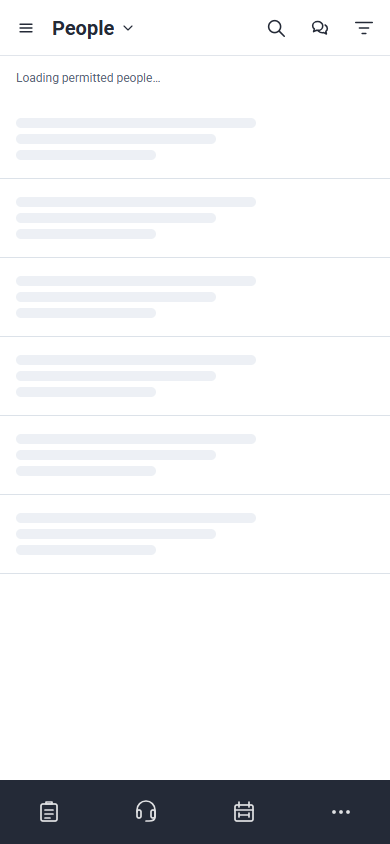
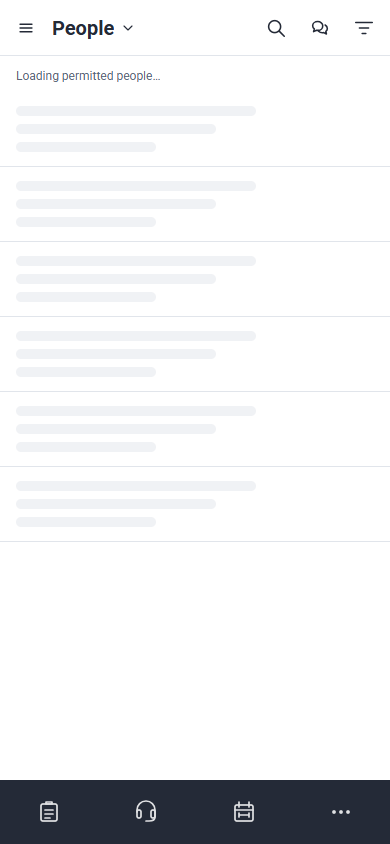
test(people): finish frame comparisons and record validation limits

Changed region(s): [[0.1231, 0.0616, 0.2769, 0.1232], [0.3077, 0.0616, 0.4, 0.1232], [0.0615, 0.0616, 0.0923, 0.1232]]

diff --git a/src/components/people-register.tsx b/src/components/people-register.tsx
@@ -115,6 +115,9 @@ function PeopleList({ query }: { query: URLSearchParams }) {
     true,
   );
   const data = resource.data;
+  const appliedOrganisation = data?.organisations.find(
+    (option) => option.id === query.get("organisation"),
+  )?.label;
   const selectedHere = selected.filter((id) =>
     data?.items.some((row) => row.id === id),
   );
@@ -422,14 +425,13 @@ function PeopleList({ query }: { query: URLSearchParams }) {
           <section className="people-state">
             <strong>No matching people</strong>
             <p>
-              No permitted person matches these filters. People in companies you
-              cannot see are not shown or counted. Check the spelling, or clear
-              the search.
+              No permitted person
+              {appliedOrganisation ? ` at ${appliedOrganisation}` : ""} matches
+              {query.get("q") ? ` “${query.get("q")}”` : " these filters"}.
+              People in companies you cannot see are not shown or counted. Check
+              the spelling, or clear the search.
             </p>
-            <Button
-              variant="secondary"
-              onClick={() => change({ q: "", organisation: "", notices: "" })}
-            >
+            <Button variant="secondary" onClick={() => change({ q: "" })}>
               Clear the search
             </Button>
           </section>
@@ -693,20 +695,24 @@ function PeopleList({ query }: { query: URLSearchParams }) {
                     <option value="DoNotNotify">Do not notify</option>
                   </select>
                 </label>
-                <Button type="submit">Show people</Button>
-                <Button
-                  variant="quiet"
-                  onClick={() => {
-                    setSearch("");
-                    setOrganisation("");
-                    setNotices("All");
-                  }}
-                >
-                  Reset
-                </Button>
-                <Button variant="secondary" onClick={refresh}>
-                  Refresh people
-                </Button>
+                <div className="people-filter-actions">
+                  <Button variant="primary" type="submit">
+                    Show people
+                  </Button>
+                  <Button
+                    variant="quiet"
+                    onClick={() => {
+                      setSearch("");
+                      setOrganisation("");
+                      setNotices("All");
+                    }}
+                  >
+                    Reset
+                  </Button>
+                  <Button variant="secondary" onClick={refresh}>
+                    Refresh people
+                  </Button>
+                </div>
                 <p>
                   <Link href={href("/customers/new?kind=person")}>
                     Create person

diff --git a/tests/browser/people-native.spec.ts b/tests/browser/people-native.spec.ts
@@ -164,32 +164,52 @@ test("CS02 loading, empty, failed and denied reads never retain a list or stale 
   });
   await page.goto("/people?department=service");
   await expect(page.locator(".people-loading")).toBeVisible();
+  expect(
+    (await page.locator(".people-skeleton").first().boundingBox())!.height,
+  ).toBe(75);
   await capture(page, info, "loading-390");
   mode = "loaded";
   release?.();
   await expect(page.locator(".people-phone-row")).toHaveCount(8);
   for (const state of ["empty", "error", "denied"]) {
     mode = state;
-    await page.reload();
+    await page.goto(
+      state === "empty"
+        ? `/people?department=service&q=Prya&organisation=${peopleFixtureId(106)}`
+        : "/people?department=service",
+    );
     await expect(page.locator(".people-state")).toBeVisible();
     await expect(page.locator(".people-phone-row")).toHaveCount(0);
     await expect(page.locator("#people-menu small")).toHaveCount(
       state === "empty" ? 4 : 0,
     );
-    if (state === "empty")
+    if (state === "empty") {
       await expect(
         page.getByText("No matching people", { exact: true }),
       ).toBeVisible();
-    else
+      await expect(page.locator(".people-state")).toContainText(
+        "No permitted person at Hillview Growers matches “Prya”.",
+      );
+    } else
       await expect(page.locator(".people-error")).toContainText(
         state === "denied" ? "outside your access" : "could not be loaded",
       );
     await capture(page, info, `${state}-390`);
+    if (state === "empty") {
+      await page
+        .getByRole("button", { name: "Clear the search", exact: true })
+        .click();
+      await expect(page).not.toHaveURL(/q=Prya/);
+      expect(new URL(page.url()).searchParams.get("organisation")).toBe(
+        peopleFixtureId(106),
+      );
+    }
   }
 });
 test("CS02 Contacts hub preserves People and Organisations and real person receiving", async ({
   page,
 }) => {
+  await page.setViewportSize({ width: 1440, height: 900 });
   await page.goto("/contacts?view=people&department=service");
   await expect(
     page.getByRole("navigation", { name: "Contacts views" }),

diff --git a/tests/browser/directory-navigation.spec.ts b/tests/browser/directory-navigation.spec.ts
@@ -19,7 +19,7 @@ async function directory(page: Page, path: "/customers" | "/people") {
   const response = await pending;
   expect(response.status()).toBe(200);
   const data = await response.json();
-  await expect(page.getByRole("heading", { name: path === "/customers" ? "Organisations" : "People", exact: true })).toBeVisible();
+  await expect(page.getByRole("heading", { name: path === "/customers" ? "Organisations" : "People", level: 1, exact: true })).toBeVisible();
   // Performance diagnostics share this readiness check; the phone trigger stays mounted behind Menu.
   await expect(identityToggle(page)).toBeEnabled();
   if (test.info().project.use.isMobile) await expect(identityToggle(page)).toBeHidden();
@@ -90,7 +90,7 @@ test("directory record links avoid automatic reads and keep exact receiving navi
       await page.getByRole('button',{name:isMobile ? 'Search people' : 'People options',exact:true}).click();
       await activate(page,page.getByRole('link',{name:'Create person',exact:true}),isMobile,!isMobile);
     }
-    await expect(page).toHaveURL(path === "/customers" ? /customers\/new$/ : new RegExp(`/customers/new\\?kind=${kind}$`));
+    await expect(page).toHaveURL(path === "/customers" ? /customers\/new$/ : new RegExp(`/customers/new\\?kind=${kind}(?:&department=[a-z]+)?$`));
     await expect(page.locator("main form").first()).toBeVisible();
   }
   await directory(page, "/customers");
@@ -105,7 +105,7 @@ test("directory record links avoid automatic reads and keep exact receiving navi
     const link = page.getByRole("navigation", { name: "Shared records", exact: true }).getByRole("link", { name: label, exact: true });
     await activate(page, link, isMobile, !isMobile);
     await expect(page).toHaveURL(new URL(path, page.url()).href);
-    await expect(page.getByRole("heading", { name: path === "/equipment" ? "Installed base" : label, exact: true })).toBeVisible();
+    await expect(page.getByRole("heading", { name: path === "/equipment" ? "Installed base" : label, level: 1, exact: true })).toBeVisible();
   }
   await page.screenshot({ path: info.outputPath("directory-navigation.png"), fullPage: false });
 });

diff --git a/tests/browser/department-navigation.spec.ts b/tests/browser/department-navigation.spec.ts
@@ -202,7 +202,7 @@ test("shared URL context survives unavailable browser storage", async ({ page })
   await expect(page.getByRole("navigation", { name: "Engineering shortcuts" })).toBeVisible();
   await page.reload();
   await expect(page.getByRole("navigation", { name: "Engineering shortcuts" })).toBeVisible();
-  await expect(page.getByRole("heading", { name: "People", exact: true })).toBeVisible();
+  await expect(page.getByRole("heading", { name: "People", level: 1, exact: true })).toBeVisible();
 });
 test("specific Engineering, Projects and Fertigation destinations preserve their active parent", async ({ page }) => {
   await login(page);
@@ -242,7 +242,7 @@ test("phone and 200 percent equivalent reflow keep the established navigation", 
   await expect(page.getByRole("button", { name: "More", exact: true })).toBeVisible();
   await capture(page, "mobile-leads-global-navigation");
   await page.setViewportSize({ width: 720, height: 450 }); await page.goto("/contacts?view=people&department=sales");
-  await expect(page.getByRole("heading", { name: "People", exact: true })).toBeVisible();
+  await expect(page.getByRole("heading", { name: "People", level: 1, exact: true })).toBeVisible();
   expect(await page.evaluate(() => document.documentElement.scrollWidth <= innerWidth)).toBe(true);
   const headerBounds = await page.locator(".ppo-shell-header").boundingBox();
   // Phone header amendment: the row keeps the Menu button and Conversations; search and the Page guide are in the Menu.

diff --git a/src/app/styles/people-register.css b/src/app/styles/people-register.css
@@ -208,7 +208,7 @@
 #ppo-people .people-state {
   margin: 12px 16px;
   padding: 16px;
-  border: 1px solid var(--line-strong);
+  border: 1px solid var(--line);
   border-radius: var(--radius-card);
   color: var(--text-secondary);
 }
@@ -227,23 +227,27 @@
   color: var(--danger);
 }
 #ppo-people .people-loading > p {
-  padding: 12px 16px;
+  padding: 12px 16px 8px;
   margin: 0;
   color: var(--text-secondary);
   font-size: 12px;
+  line-height: 16px;
 }
 #ppo-people .people-skeleton {
-  padding: 12px 16px;
-  border-bottom: 1px solid var(--line-strong);
+  display: flex;
+  flex-direction: column;
+  gap: 8px;
+  padding: 14px 16px;
+  border-bottom: 1px solid var(--line);
 }
 #ppo-people .people-skeleton i {
   display: block;
   height: 10px;
   width: 240px;
   max-width: 80%;
-  margin: 6px 0;
+  margin: 0;
   border-radius: var(--radius-control);
-  background: var(--neutral-surface);
+  background: var(--surface-hover);
 }
 #ppo-people .people-skeleton i:nth-child(2) {
   width: 200px;
@@ -331,6 +335,16 @@
 }
 #ppo-people .crm-r38-panel form label {
   display: grid;
+}
+#ppo-people .people-filter-actions {
+  display: flex;
+  flex-wrap: wrap;
+  gap: 8px;
+  margin: 12px 0;
+}
+#ppo-people .people-filter-actions .ppo-button--quiet:hover {
+  background: var(--neutral-surface);
+  color: var(--ink);
 }
 #ppo-people .crm-r38-panel :is(input:not([type="checkbox"]), select) {
   width: 100%;

diff --git a/tests/browser/shell-loading.spec.ts b/tests/browser/shell-loading.spec.ts
@@ -37,7 +37,7 @@ test("desktop and phone preserve exact shell navigation and Back with the baseli
   }
   if (isMobile) await link.tap(); else await keyActivate(page, link);
   await expect(page).toHaveURL(target.href);
-  await expect(page.getByRole("heading", { name: "People", exact: true })).toBeVisible();
+  await expect(page.getByRole("heading", { name: "People", level: 1, exact: true })).toBeVisible();
   await page.goBack();
   await expect(page).toHaveURL(`${origin}/customers?department=sales`);
   await expect(page.getByRole("heading", { name: "Organisations", exact: true })).toBeVisible();

diff --git a/docs/testing/evidence/people-native/README.md b/docs/testing/evidence/people-native/README.md
@@ -2,7 +2,7 @@
 
 <!-- versioning: git; committed history is authoritative -->
 
-Scope **CS-02**. Owner: Dean Fiedler. Contributor: Codex. Branch `codex/accepted-ui-build`, draft PR #624, based on main `d512bd38`. Owner visual/device review **pending**. Application deployment is not claimed.
+Scope **CS-02**. Owner: Dean Fiedler. Contributor/branch owner: this Codex build session. Branch `codex/accepted-ui-build`, application draft PR [#625](https://github.com/deanrfiedler-gif/powerplants-one/pull/625), based on main `971ac3502f87d5ba7e093bbe37abc83e75d4fb99`. Queue/claim PR #624 merged separately. Implementation commit `5f3d78d0` and the subsequent validation commit containing this evidence form the delivered source. Owner visual/device review **pending**. Application deployment is not claimed.
 
 The accepted source is **PPO - Design**, page `1395:150275`, named version **People — accepted**: desktop `1395:150312` (1440 × 900), tablet `1395:150835` (1024 × 900), phone `1395:151069` (390 × 844), loading `1395:151245`, empty `1395:151303`, error `1395:151346` (390 × 844), notes `1395:151383`. Read live metadata, design context, variables and screenshots. Shell sources: top bar `35:138`, Service rail `198:3778`, compact phone header `1530:110`, named **Phone header amendment — accepted**. The [retained captures](../../../reference/ui/customers/people-design-r01/README.md) remain unchanged.
 
@@ -12,14 +12,58 @@ The accepted source is **PPO - Design**, page `1395:150275`, named version **Peo
 
 Application captures use the repository's local fallback icons with the Kit unavailable on 127.0.0.1. Font Awesome drawing differences are expected; the existing Kit mapping supplies Pro Light only under the repository's opt-in runtime contract. No reference capture is rewritten.
 
-## Results
+## Executed checks — 20 October 2026
 
-- Database: **2/2 passed** on 20 October 2026. Permitted rows/counts/options, stable bounded pages, actor/company/filter-bound cursor refusal, invalid filters, current affiliations, primary contacts, latest notice preference and restricted history. Uses only existing migration 0109 and earlier test history; no new migration or capability.
-- Initial typecheck found two invalid icon names; corrected to existing mapped icons. Final check pending.
-- Initial dev launch rejected the node_modules junction (Turbopack filesystem root). Removed only the verified junction, installed the unchanged lockfile into this worktree, and restarted successfully on loopback port 3034.
-- The existing `ppo_synthetic` database lacks 0109's notice-preference table. It was not upgraded. Application verification uses the disposable `ppo_synthetic_test` database after its normal test setup.
-- Browser comparison, studio, lint, final typecheck, unit, build and documentation results are being collected. No pending check is claimed as passed.
+| Check | Result and boundary |
+|---|---|
+| `npm run studio:check` | Passed: 366 entries, 48 components, 21 runnable components, zero errors. 338 unreviewed and 28 stale entries remain visible; this is not owner acceptance. |
+| `npm run lint` | Passed. Focused ESLint rerun covers the final People component and browser-test edits. |
+| `npm run typecheck` | Passed. |
+| `npm run build` | Passed on the initial implementation and again after the final state/layout changes, including compilation, TypeScript and route generation. |
+| `npm run test:unit` | **Failed: 942/947 passed.** Three failures reproduce on unchanged main; two timeouts pass in quiet reruns, detailed below. No full green claim. |
+| Quiet unit rerun | **19/19 passed**, serial: `cpq-packages.test.ts`, `foundation.test.ts`, `people-register.test.ts` and `phone-header.test.ts`. |
+| `tests/database/people-register.test.ts` | **2/2 passed** against `ppo_synthetic_test`. Permitted rows/counts/options; bounded pages and actor/company/filter-bound cursor refusal; invalid filters; current affiliations, primary contacts, latest notice preference and restricted correction history. Existing migration 0109 and earlier history only. |
+| `tests/browser/people-native.spec.ts` | **10/10 passed** across desktop and mobile projects, plus the five-case capture run: 1440/1024/390/320 geometry, filter drafts/apply, transient selection, exact URLs, loading/empty/error/denied, Contacts and actual Person receiving, phone chooser and modal focus. |
+| `tests/browser/directory-navigation.spec.ts` | **2/2 passed**, desktop and mobile projects: no automatic record-prefetch reads; exact Person/Organisation/Site receiving, keyboard/touch activation, creation links and shared navigation. |
+| `tests/browser/crm-refinements.spec.ts`, saved/scoped directory case | **2/2 passed**, desktop and mobile projects. Existing account saved views remain usable through `people_layout=directory`. |
+| `tests/browser/department-navigation.spec.ts`, storage/reflow cases | **2 passed, two existing mobile-project skips**. Engineering context survives unavailable browser storage; the explicit 720 px phone/reflow scenario retains navigation and avoids page overflow. This is not a full zoom/accessibility review. |
+| `tests/browser/shell-loading.spec.ts` | **4 passed, two existing mobile-project skips**. Exact shell navigation/Back passes on desktop and phone; desktop first-paint rail and delayed Planner-context checks pass. |
+| `python scripts/check_naming.py` | Passed: 741 document records; maintained ChatGPT instructions 7,989 characters, unchanged. |
+| `python scripts/check_foundation.py` | Passed: 22 issued artefacts and all 78 parent requirements preserved. |
+| `python scripts/build_status.py` | Regenerated status and decisions index from 58 fragments. |
+| `python scripts/build-ui-sequence.py` | Regenerated ignored `tmp/` outputs: 366 entries, 363 placed, three excluded. 46 build / 104 refine / 208 review / five decide; 28 owner-reviewed entries retained, no new review invented. |
+
+Windows baseline comparison used a separate untouched worktree at `971ac3502f87d5ba7e093bbe37abc83e75d4fb99`. Running the four affected existing unit files produced 9/12 passing and the same three failures: two `document-store.test.ts` cases throw `ExactDocumentUnavailable`; `recovery.test.ts` expects `/outside Git/` but receives `Unsafe recovery directory`. The full feature run also hit the CPQ worker's five-second `CalculationLimit` and the foundation launcher's five-second `ETIMEDOUT`. Those cases passed on main and in the feature's quiet 19-case serial run. This supports an environment/timing explanation; it does not turn the failed full run into a pass.
+
+Initial browser checks caught oversized checkbox rows, the modal's browser-default width, ambiguous heading selectors and a first-load receiving timeout. The fixes reset checkbox geometry, explicitly fill the phone viewport, select the page's level-one heading, and wait for the existing receiving API. A final live-frame comparison corrected the 75 px loading rows and the empty state's applied filter text. The final browser runs above include those fixes. The empty state's Clear the search action now preserves Organisation and Notices.
+
+The first [Engineering CI run](https://github.com/deanrfiedler-gif/powerplants-one/actions/runs/39338126097) failed one existing department-navigation assertion because both the page and its new menu have a People heading. The affected department and shell assertions now target the level-one page heading; their local reruns pass as recorded above. Final-head CI is reported by the PR and is not inferred from those reruns.
+
+No new UI route was introduced, so `studio:sync` was not needed. The API route is registered through the existing People source bindings. No full database, HTTP, compiled-browser or physical-device suite was run locally; their status is not inferred from these focused checks. GitHub CI and independent review remain separate, with current results on the PR. No independent second-model review is claimed.
+
+## Reproduction environment
+
+Windows, locked Node/npm dependencies, stable Chrome through the repository's existing Playwright dependency. The application ran on loopback port 3034. Browser runs used a local config with that base URL, one worker, `en-AU`, 180-second per-test timeout, and desktop (1440 × 900) / mobile (390 × 844, touch enabled) project settings. Individual frame cases set the widths listed below. The normal repository browser configs discover the committed specs for CI; the local config did not change application code.
+
+Private local configuration was supplied directly to the process from outside this worktree. A local helper validated the loopback synthetic database setting and selected `ppo_synthetic_test`; no configuration values or connection strings are retained. The existing `ppo_synthetic` database lacks 0109's notice-preference table and **was not upgraded**. The disposable test database received its normal test setup with existing migrations only.
+
+The first dev launch rejected a node_modules junction under Turbopack's filesystem-root rules. Only the verified junction was removed; `npm ci --ignore-scripts --no-audit --no-fund` installed the unchanged lockfile in this worktree. No package or lockfile change was made.
+
+## Visual comparison
+
+These are contributor inspections, not Dean's visual review. The accepted live frame and the application were inspected at the same dimensions. No source capture was changed. All screenshots below use synthetic fixtures and local fallback icons.
+
+| Application capture | Compared source / observation |
+|---|---|
+| [Desktop 1440 × 900](register-1440.png) | `1395:150312`: full-bleed layout, 240 px secondary menu, 60 px toolbar, 40 px rows, pinned selection/actions and local horizontal grid scrolling. Shared timestamp includes year/zone; shell badges and icons reflect the real synthetic session. |
+| [Tablet 1024 × 900](register-1024.png) | `1395:150835`: compact register retained; shared menu opens as an overlay instead of the drawn 20 px collapsed strip. |
+| [Phone 390 × 844](register-390.png) | `1395:151069`: 85 px list rows. P9 removes the older two-row toolbar, moving the first row from y=166 to y=56. |
+| [Phone 320 × 844](register-320.png) | No drawn 320 px register. Compact header combines search/filter; no page-level horizontal overflow. This is an adaptation, not a matched reference. |
+| [Loading 390 × 844](loading-390.png) | `1395:151245`: six 75 px skeleton rows with 240/200/140 px bars and 8 px gaps, after the P9 header amendment. Shared tokens supply the colours. |
+| [Empty 390 × 844](empty-390.png) | `1395:151303`: Hillview Growers / “Prya” applied state, scoped absence wording and Clear the search. Touch button remains 44 px under P8, compared with 40 px in the older state frame. |
+| [Error 390 × 844](error-390.png) | `1395:151346`: error surface, no stale list/count, retry; the shared 44 px touch button differs from the older 40 px drawing. |
+| [Denied 390 × 844](denied-390.png), [filters 320 × 844](filters-320.png) | No accepted People frame for either composition. Existing state/modal primitives, explicit access boundary and return focus; owner composition review remains pending. |
 
 ## Recorded differences and questions
 
-The [page contract](../../../design/development/pages/route-people.md#recorded-gaps-and-open-questions) owns the complete list. In particular P9 removes two old phone toolbar rows, shifting the first list row from the retained frame's y=166 to y=56. The inherited tablet overlay replaces the drawn 20 px strip. The old saved-view workflow remains reachable separately; the accepted page draws no replacement. Owner review is independent of test results.
+The [page contract](../../../design/development/pages/route-people.md#recorded-gaps-and-open-questions) owns the complete list: tablet/menu breakpoint, undrawn phone filters and 320 px register, selection purpose, saved views, stakeholder context, date format, notice wording, offline/device limits and shell composition. In particular the inherited phone shell has no floating Quick add; Create person remains in the filter panel. Its navigation and badges reflect real synthetic permissions rather than the frame's example counts. These are declared differences, not new design acceptance. Owner review is independent of test results.

diff --git a/docs/STATUS.md b/docs/STATUS.md
@@ -5,11 +5,11 @@
 
 ## People register implementation and synthetic verification — 20 October 2026
 
-The accepted CS-02 People register is implemented in the dedicated `codex/accepted-ui-build` worktree: `/people` and the People view of `/contacts`, with the existing Person record receiving the exact handover. Source: **PPO - Design**, page `1395:150275`, named **People — accepted**, register/tablet/phone `1395:150312`, `1395:150835`, `1395:151069`, plus the three register states. The later compact phone amendment removes repeated toolbar rows. The queue-only PR #624 merged before the application change; the application follows in a separate draft PR.
+The accepted CS-02 People register is implemented in the dedicated `codex/accepted-ui-build` worktree: `/people` and the People view of `/contacts`, with the existing Person record receiving the exact handover. Source: **PPO - Design**, page `1395:150275`, named **People — accepted**, register/tablet/phone `1395:150312`, `1395:150835`, `1395:151069`, plus the three register states. The later compact phone amendment removes repeated toolbar rows. The queue-only PR #624 merged before the application change; the application is draft PR #625.
 
 The read-only aggregate uses existing grants and tables for current affiliations, primary sites, latest company/class notice exceptions and correction timestamps. No migration, capability, dependency or operational integration is added. Existing shared menu/grid/modal/button/icon controls are reused, with one optional phone-header composition prop. The old account saved-view directory remains explicitly reachable. The [page contract](design/development/pages/route-people.md), register, Draft guides and component consumers/fixtures record differences and missing designs.
 
-Two database tests pass against `ppo_synthetic_test`. Browser geometry and state/filter/receiving checks pass in focused runs; final full verification is recorded in the [evidence](testing/evidence/people-native/README.md). Full unit testing has Windows failures under investigation against unmodified main; no full green claim, owner visual/device review, deployment or business acceptance is made. The [ordered queue](delivery/accepted-ui-build-plan.md) retains AD-01 blocked on Dean's instruction and separates each next page's prerequisites.
+Two database tests pass against `ppo_synthetic_test`; ten People browser cases, two navigation regressions and two retained saved-view cases pass across desktop/mobile projects. Studio, lint, typecheck, naming, foundation and the final-source production build pass; execution details are kept in the [evidence](testing/evidence/people-native/README.md). The full unit run passes 942/947: three document-store/recovery failures reproduce on unmodified main `971ac350`, and two five-second timing failures pass in a quiet 19/19 rerun. No full green claim, owner visual/device review, deployment or business acceptance is made. Contributor comparisons cover the drawn desktop/tablet/phone and loading/empty/error states, with declared shell and undrawn-state differences. The [ordered queue](delivery/accepted-ui-build-plan.md) retains AD-01 blocked on Dean's instruction and separates each next page's prerequisites.
 
 ## Accepted UI queue and People register claim — 20 October 2026
 

diff --git a/docs/status/2026-10-20-people-register-implementation.md b/docs/status/2026-10-20-people-register-implementation.md
@@ -3,8 +3,8 @@ title: People register implementation and synthetic verification
 date: 2026-10-20
 ---
 
-The accepted CS-02 People register is implemented in the dedicated `codex/accepted-ui-build` worktree: `/people` and the People view of `/contacts`, with the existing Person record receiving the exact handover. Source: **PPO - Design**, page `1395:150275`, named **People — accepted**, register/tablet/phone `1395:150312`, `1395:150835`, `1395:151069`, plus the three register states. The later compact phone amendment removes repeated toolbar rows. The queue-only PR #624 merged before the application change; the application follows in a separate draft PR.
+The accepted CS-02 People register is implemented in the dedicated `codex/accepted-ui-build` worktree: `/people` and the People view of `/contacts`, with the existing Person record receiving the exact handover. Source: **PPO - Design**, page `1395:150275`, named **People — accepted**, register/tablet/phone `1395:150312`, `1395:150835`, `1395:151069`, plus the three register states. The later compact phone amendment removes repeated toolbar rows. The queue-only PR #624 merged before the application change; the application is draft PR #625.
 
 The read-only aggregate uses existing grants and tables for current affiliations, primary sites, latest company/class notice exceptions and correction timestamps. No migration, capability, dependency or operational integration is added. Existing shared menu/grid/modal/button/icon controls are reused, with one optional phone-header composition prop. The old account saved-view directory remains explicitly reachable. The [page contract](../design/development/pages/route-people.md), register, Draft guides and component consumers/fixtures record differences and missing designs.
 
-Two database tests pass against `ppo_synthetic_test`. Browser geometry and state/filter/receiving checks pass in focused runs; final full verification is recorded in the [evidence](../testing/evidence/people-native/README.md). Full unit testing has Windows failures under investigation against unmodified main; no full green claim, owner visual/device review, deployment or business acceptance is made. The [ordered queue](../delivery/accepted-ui-build-plan.md) retains AD-01 blocked on Dean's instruction and separates each next page's prerequisites.
+Two database tests pass against `ppo_synthetic_test`; ten People browser cases, two navigation regressions and two retained saved-view cases pass across desktop/mobile projects. Studio, lint, typecheck, naming, foundation and the final-source production build pass; execution details are kept in the [evidence](../testing/evidence/people-native/README.md). The full unit run passes 942/947: three document-store/recovery failures reproduce on unmodified main `971ac350`, and two five-second timing failures pass in a quiet 19/19 rerun. No full green claim, owner visual/device review, deployment or business acceptance is made. Contributor comparisons cover the drawn desktop/tablet/phone and loading/empty/error states, with declared shell and undrawn-state differences. The [ordered queue](../delivery/accepted-ui-build-plan.md) retains AD-01 blocked on Dean's instruction and separates each next page's prerequisites.

diff --git a/docs/design/development/pages/route-people.md b/docs/design/development/pages/route-people.md
@@ -2,7 +2,7 @@
 
 <!-- versioning: git; committed history is authoritative -->
 
-Stable entry: `route:/people`. Scope **CS-02**. Owner: Dean Fiedler. Route `/people`, also the People view of `/contacts`. Source base: main `d512bd38`. Design accepted; application owner visual/device review **pending**. r20 page type: **Register / worklist**.
+Stable entry: `route:/people`. Scope **CS-02**. Owner: Dean Fiedler. Route `/people`, also the People view of `/contacts`. Source base: main `971ac350` after queue-only PR #624. Application draft PR #625. Design accepted; application owner visual/device review **pending**. r20 page type: **Register / worklist**.
 
 ## Authority and exact references
 
@@ -51,6 +51,7 @@ The existing account saved-view directory remains at `people_layout=directory`, 
 | Gap | Actual treatment and question for Dean |
 |---|---|
 | Phone toolbar rows | Removed under accepted P6/P9. Compared list content shifts from retained y=166 to y=56; this is an authorised amendment, not an altered reference. |
+| Phone Quick add | The inherited shell has no floating Quick add as drawn in the list/loading frames. Create person is reachable in the phone filter panel. Should a shared floating control be restored in a shell amendment? |
 | Tablet/menu and breakpoint | Existing shared tablet overlay replaces the drawn 20 px collapsed strip; inherited phone threshold 780 px differs from P1's below 768 px. Keep shell consistency pending separate shell alignment. |
 | Phone filters | No People filter frame. Existing modal uses Reset, Show people and refresh; no speculative count on the apply button. What is the accepted detailed composition? |
 | Checkbox/row actions | Grid draws them but specifies no bulk action or snapshot. Local page selection, Clear selection and Open person only. What job should selecting people enable? |
@@ -61,6 +62,7 @@ The existing account saved-view directory remains at `people_layout=directory`, 
 | Source summaries | Site roles/affiliations include permitted links only. Role text has no taxonomy. No Activities-to-Person history or purchasing authority is invented. |
 | Offline/device | Online-only per [offline contract](../systems/offline.md). Physical touch, screen-reader and owner/device review remain pending. |
 | Read-time format | Shared S6 timestamp formatting includes the year and zone abbreviation rather than the frame’s compact date. No new date format is introduced. |
+| State buttons | Shared 44 px phone touch buttons follow P8; older empty/error frames draw 40 px. Loading rows retain the drawn 75 px spacing. Clear the search removes only the text query, retaining applied organisation/notices filters. |
 | Fonts/icons/shell data | Shared Roboto/tokens and local fallback icons in public evidence. Live Kit artwork and synthetic shell badges differ from retained icons/counts; no Pro artwork is committed. |
 
 ## Evidence and delivery status
